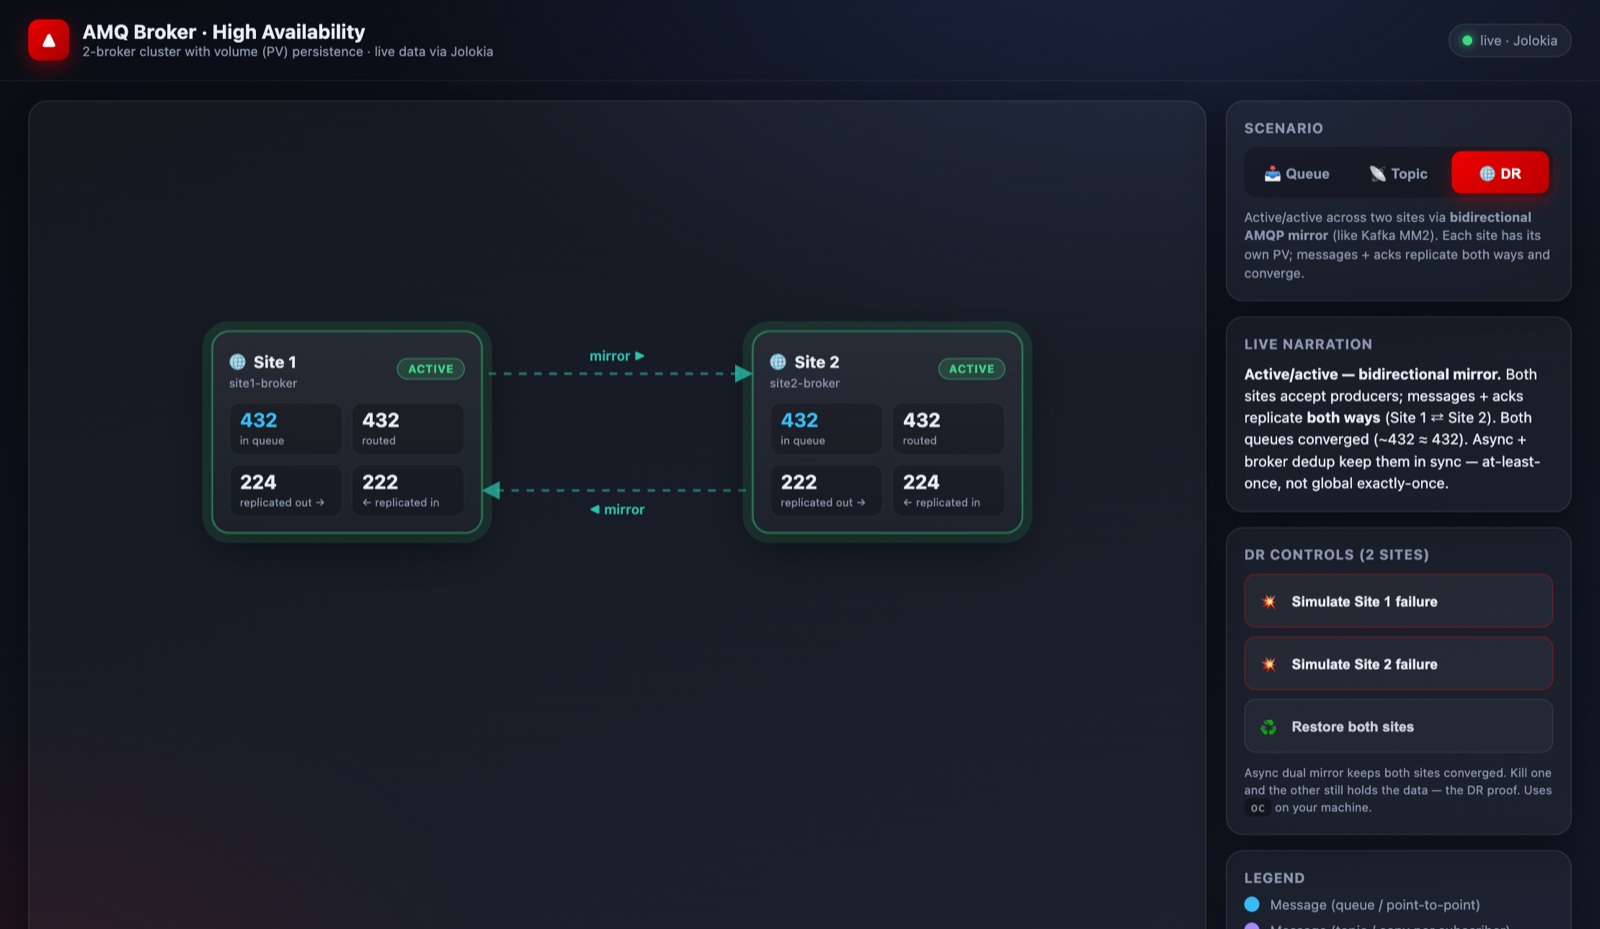
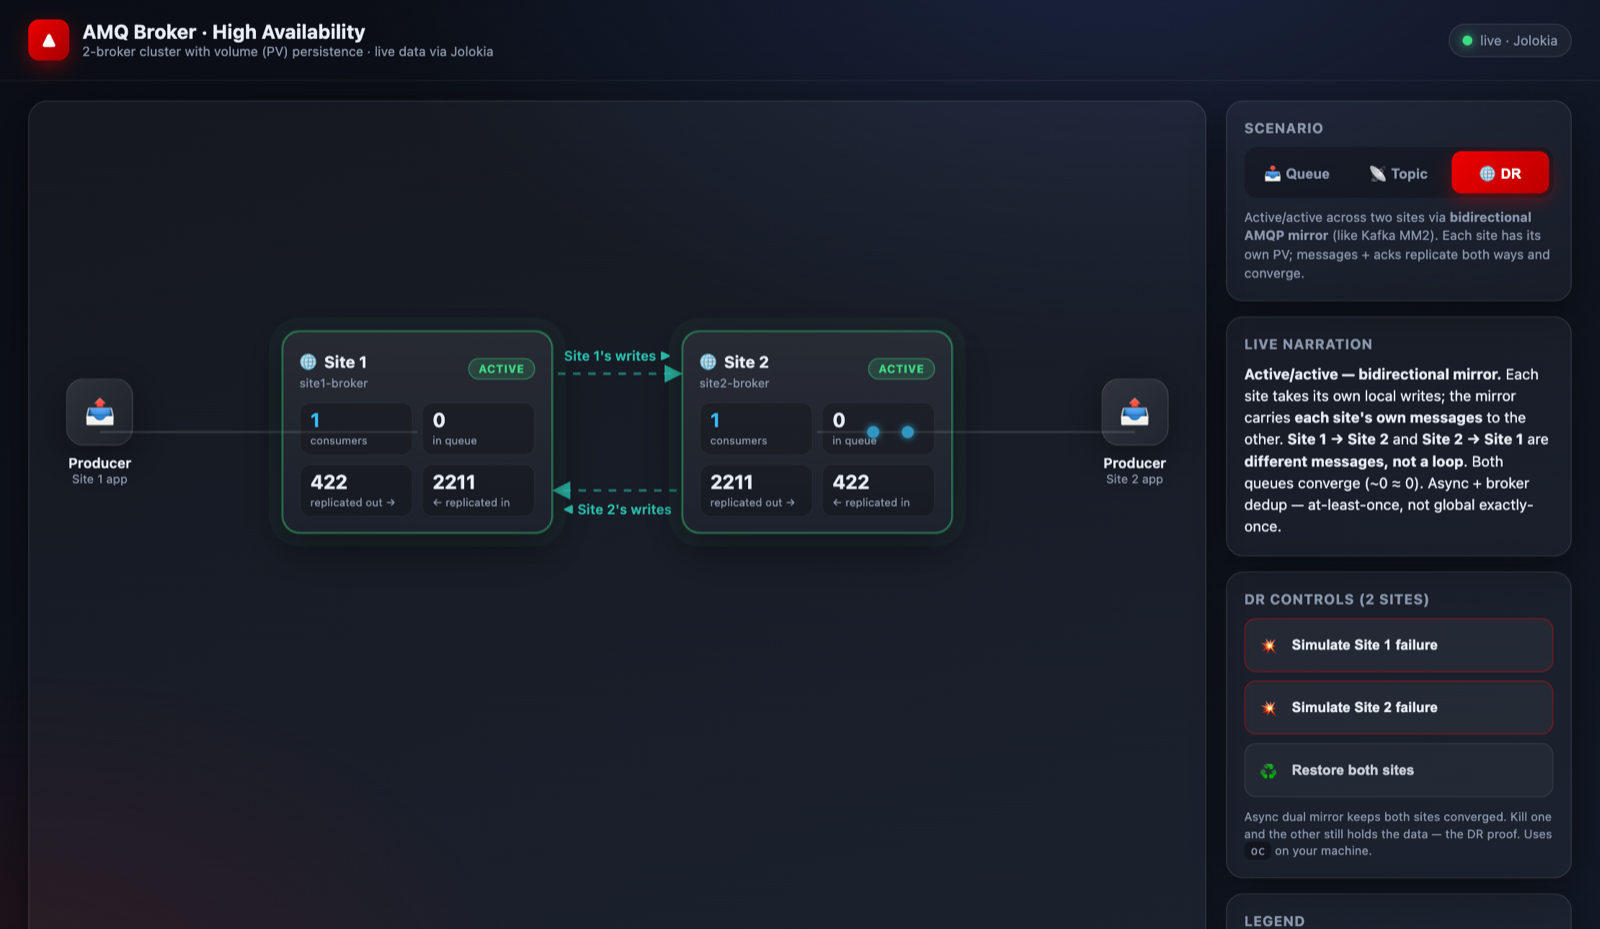
feat(active-active): client failover so a site outage stops nothing
- apps: producer + consumer on each site, prefer local site, fail over to the other
  (explicit 'artemis <local> || artemis <remote>' loop, fast finite reconnect)
- visualizer: show per-site consumer count; on a site failure animate the app
  rerouting to the survivor (amber 'failover' flow) + banner 'nothing stopped'
- restore action bounces the site's consumer (delayed) so it returns home
- refresh DR screenshots + README

diff --git a/webapp/index.html b/webapp/index.html
@@ -400,8 +400,8 @@ function renderSiteCard(s){
         <span class="st ${stCls}">${stTxt}</span>
       </div>
       <div class="grid2">
-        <div class="met hl"><div class="v">${s.messageCount}</div><div class="k">in queue</div></div>
-        <div class="met"><div class="v">${s.routed}</div><div class="k">routed</div></div>
+        <div class="met hl"><div class="v">${s.consumers||0}</div><div class="k">consumers</div></div>
+        <div class="met"><div class="v">${s.messageCount}</div><div class="k">in queue</div></div>
         <div class="met"><div class="v">${s.mirrorOut}</div><div class="k">replicated out →</div></div>
         <div class="met"><div class="v">${s.replIn||0}</div><div class="k">← replicated in</div></div>
       </div>
@@ -445,12 +445,26 @@ function drawDrPaths(){
   // local-produce links (each producer feeds its own site)
   pathsG.appendChild(lineEl(layout.prod1, layout.site1));
   pathsG.appendChild(lineEl(layout.prod2, layout.site2));
-  // mirror lanes, each labelled by its SOURCE so it's clear they carry different messages
-  pathsG.appendChild(drMirrorLine(layout.mTopA, layout.mTopB));   // site1 -> site2
-  pathsG.appendChild(drMirrorLine(layout.mBotA, layout.mBotB));   // site2 -> site1
-  const midx=(layout.site1.x+layout.site2.x)/2;
-  pathsG.appendChild(drText(midx, layout.mTopA.y-12, "Site 1's writes  ▶"));
-  pathsG.appendChild(drText(midx, layout.mBotA.y+22, "◀  Site 2's writes"));
+  const off = lastDr ? lastDr.sites.filter(s=>!s.online).map(s=>s.id) : [];
+  if(off.length){
+    // failure scenario: the dead site's app reroutes to the survivor (amber)
+    const dead=off[0], surv=dead===1?2:1;
+    const prod=dead===1?layout.prod1:layout.prod2, site=surv===1?layout.site1:layout.site2;
+    const fl=document.createElementNS(NS,"path");
+    fl.setAttribute("d",`M ${prod.x} ${prod.y} L ${site.x} ${site.y}`);
+    fl.setAttribute("fill","none"); fl.setAttribute("stroke","rgba(255,176,32,.7)");
+    fl.setAttribute("stroke-width","2.6"); fl.setAttribute("stroke-dasharray","7 7"); fl.classList.add("flow");
+    pathsG.appendChild(fl);
+    const e=drText((prod.x+site.x)/2, prod.y-14, `Site ${dead} app → Site ${surv} (failover)`);
+    e.setAttribute("fill","rgba(255,176,32,.95)"); pathsG.appendChild(e);
+  }else{
+    // mirror lanes, each labelled by its SOURCE so it's clear they carry different messages
+    pathsG.appendChild(drMirrorLine(layout.mTopA, layout.mTopB));   // site1 -> site2
+    pathsG.appendChild(drMirrorLine(layout.mBotA, layout.mBotB));   // site2 -> site1
+    const midx=(layout.site1.x+layout.site2.x)/2;
+    pathsG.appendChild(drText(midx, layout.mTopA.y-12, "Site 1's writes  ▶"));
+    pathsG.appendChild(drText(midx, layout.mBotA.y+22, "◀  Site 2's writes"));
+  }
 }
 
 // A message is BORN at a site's producer (blue), enters the site, then is REPLICATED
@@ -467,26 +481,37 @@ function spawnSiteFlow(siteId, n, targetOnline){
   }, i*130);
 }
 
+// when a site is down, its app reroutes to the survivor (amber = failover)
+function spawnFailover(deadId, survId, n){
+  const prod = deadId===1?layout.prod1:layout.prod2;
+  const site = survId===1?layout.site1:layout.site2;
+  for(let i=0;i<n;i++) setTimeout(()=>{ if(mode==="dr") spawnDot([prod,site], COLORS.migrate, 240); }, i*130);
+}
+
 function onDrState(st){
   const wasOff={...drOffline};
   const byId={}; st.sites.forEach(s=>byId[s.id]=s);
   // each site's "replicated in" = the other site's outbound mirror count
   st.sites.forEach(s=>{ const o=byId[s.id===1?2:1]; s.replIn = o? o.mirrorOut:0; });
   lastDr=st;
+  let changed=false;
   st.sites.forEach(s=>{
     const down=!s.online;
-    if(down && !wasOff[s.id]){ drOffline[s.id]=true; const surv=s.id===1?2:1;
-      showBanner(`⚠ ${s.name} OFFLINE — Site ${surv} keeps serving (converged copy, no data lost)`);
-      toast(`${s.name} down — DR: Site ${surv} already holds the data`);
-    }else if(!down && wasOff[s.id]){ drOffline[s.id]=false; hideBanner();
+    if(down && !wasOff[s.id]){ drOffline[s.id]=true; changed=true; const surv=s.id===1?2:1;
+      showBanner(`⚠ ${s.name} OFFLINE — its apps failed over to Site ${surv}, nothing stopped`);
+      toast(`${s.name} down — apps failed over to Site ${surv}`);
+    }else if(!down && wasOff[s.id]){ drOffline[s.id]=false; changed=true; hideBanner();
       toast(`${s.name} recovered — mirror re-syncing`);
     }
   });
   [1,2].forEach(id=>{ const s=byId[id]; if(s){ renderSiteCard(s); moveNode("site"+id, id===1?layout.site1:layout.site2); } });
-  // animate each site's own flow (produce -> replicate) from real outbound-mirror deltas
+  if(changed) drawDrPaths();   // switch between mirror lanes and the failover line
+  // animate the flow from real outbound-mirror deltas
   const s1on=!!(byId[1]&&byId[1].online), s2on=!!(byId[2]&&byId[2].online);
-  if(s1on){ const d=(byId[1].mirrorOut||0)-((prevDr[1]||{}).mirrorOut||0); spawnSiteFlow(1, Math.max(0,Math.min(8,d)), s2on); }
-  if(s2on){ const d=(byId[2].mirrorOut||0)-((prevDr[2]||{}).mirrorOut||0); spawnSiteFlow(2, Math.max(0,Math.min(8,d)), s1on); }
+  const delta=id=> Math.max(0,Math.min(8,(byId[id].mirrorOut||0)-((prevDr[id]||{}).mirrorOut||0)));
+  if(s1on && s2on){ spawnSiteFlow(1, delta(1), true); spawnSiteFlow(2, delta(2), true); }
+  else if(s1on && !s2on){ const n=delta(1); spawnSiteFlow(1, n, false); spawnFailover(2, 1, n); }  // site2 down: its app -> site1
+  else if(!s1on && s2on){ const n=delta(2); spawnSiteFlow(2, n, false); spawnFailover(1, 2, n); }  // site1 down: its app -> site2
   prevDr={}; st.sites.forEach(s=> prevDr[s.id]={mirrorOut:s.mirrorOut});
   drNarration(); updateConn(true);
 }
@@ -495,8 +520,8 @@ function drNarration(){
   if(!lastDr){return;}
   const sites=lastDr.sites, on=sites.filter(s=>s.online), off=sites.filter(s=>!s.online);
   let txt="";
-  if(off.length){ const surv=on[0];
-    txt=`<b>${off.map(s=>s.name).join(", ")} OFFLINE.</b> Active/active DR: <b>${surv?surv.name:"—"}</b> keeps accepting traffic and already holds a <b>converged copy</b> via the mirror — <b>no data lost</b>. The mirror re-syncs when the site returns.`;
+  if(off.length){ const surv=on[0], dead=off[0];
+    txt=`<b>${dead.name} OFFLINE.</b> Its producer and consumer <b>failed over to ${surv?surv.name:"—"}</b> — <b>nothing stopped</b>. ${surv?surv.name:"The survivor"} now serves both sites and already holds the <b>converged copy</b> (no data lost). The mirror re-syncs when ${dead.name} returns.`;
   }else{
     const conv = (sites.length===2)? `Both queues converge (~${sites[0].messageCount} ≈ ${sites[1].messageCount}).` : "";
     txt=`<b>Active/active — bidirectional mirror.</b> Each site takes its own local writes; the mirror carries <b>each site's own messages</b> to the other. <b>Site 1 → Site 2</b> and <b>Site 2 → Site 1</b> are <b>different messages, not a loop</b>. ${conv} Async + broker dedup — at-least-once, not global exactly-once.`;

diff --git a/webapp/server.py b/webapp/server.py
@@ -243,7 +243,7 @@ def read_site(site):
     outbound mirror queue MessagesAdded (= events replicated to the other site)."""
     out = {"id": site["id"], "name": site["name"], "cr": site["cr"],
            "mirror": site["mirror"], "online": False, "active": False,
-           "messageCount": 0, "routed": 0, "mirrorOut": 0}
+           "messageCount": 0, "routed": 0, "mirrorOut": 0, "consumers": 0}
     batch = [
         {"type": "read", "mbean": 'org.apache.activemq.artemis:broker="amq-broker"',
          "attribute": "Active"},
@@ -251,6 +251,8 @@ def read_site(site):
          "attribute": ["MessageCount", "RoutedMessageCount"]},
         {"type": "read", "mbean": _mirror_mbean(site["mirror"]),
          "attribute": ["MessagesAdded"]},
+        {"type": "read", "mbean": _q_mbean(CFG["queue"]),
+         "attribute": ["ConsumerCount"]},
     ]
     res = _jolokia_post(site["console"], batch)
     if not res or not isinstance(res, list):
@@ -273,6 +275,11 @@ def read_site(site):
             out["mirrorOut"] = res[2]["value"].get("MessagesAdded", 0)
     except Exception:
         pass
+    try:
+        if len(res) > 3 and res[3].get("status") == 200:
+            out["consumers"] = res[3]["value"].get("ConsumerCount", 0)
+    except Exception:
+        pass
     return out
 
 
@@ -287,10 +294,12 @@ def dr_demo_state():
     return {"sites": [
         {"id": 1, "name": "Site 1", "cr": "site1-broker", "mirror": "toSite2",
          "online": True, "active": True, "messageCount": _dr_demo["s1q"],
-         "routed": _dr_demo["s1q"] + _dr_demo["m21"], "mirrorOut": _dr_demo["m12"]},
+         "routed": _dr_demo["s1q"] + _dr_demo["m21"], "mirrorOut": _dr_demo["m12"],
+         "consumers": 1},
         {"id": 2, "name": "Site 2", "cr": "site2-broker", "mirror": "toSite1",
          "online": True, "active": True, "messageCount": _dr_demo["s2q"],
-         "routed": _dr_demo["s2q"] + _dr_demo["m12"], "mirrorOut": _dr_demo["m21"]},
+         "routed": _dr_demo["s2q"] + _dr_demo["m12"], "mirrorOut": _dr_demo["m21"],
+         "consumers": 1},
     ]}
 
 
@@ -313,6 +322,18 @@ def dr_action(kind, site_id):
                       "-p", '{"spec":{"deploymentPlan":{"size":%s}}}' % size])
     manual = ("oc patch activemqartemis %s -n %s --type merge "
               "-p '{\"spec\":{\"deploymentPlan\":{\"size\":%s}}}'" % (cr, ns, size))
+    # On restore, bounce that site's consumer so a failed-over client returns home —
+    # but only AFTER the broker is ready again (delayed, detached), to avoid it just
+    # failing back over to the survivor.
+    if kind == "restore":
+        try:
+            subprocess.Popen(
+                ["bash", "-c",
+                 f"sleep 50; oc rollout restart deployment/site{site_id}-consumer -n {ns}"],
+                stdout=subprocess.DEVNULL, stderr=subprocess.DEVNULL,
+                start_new_session=True)
+        except Exception:
+            pass
     return {"ok": ok, "output": out, "manual": manual,
             "needsLogin": (not ok and ("Unauthorized" in out or "login" in out.lower()))}
 

diff --git a/README.md b/README.md
@@ -186,7 +186,7 @@ MirrorMaker 2 active/active setup.
 ```bash
 oc apply -f manifests/active-active/01-operator.yaml      # Operator in the amq-aa namespace
 oc apply -f manifests/active-active/02-brokers.yaml        # site1-broker <== dual mirror ==> site2-broker
-oc apply -f manifests/active-active/03-apps.yaml           # a producer on EACH site
+oc apply -f manifests/active-active/03-apps.yaml           # a producer + consumer on EACH site (with client failover)
 oc apply -f manifests/active-active/04-console-routes.yaml
 ```
 
@@ -198,9 +198,15 @@ AMQPConnections.toSite2.connectionElements.mirror.messageAcknowledgements=true
 ```
 (site 2 has the symmetric `toSite1` connection.)
 
-**Demo it** in the visualizer's **DR mode** (see below): both queues stay converged;
-click *Simulate Site 1 failure* and Site 2 keeps serving with a converged copy — no
-data lost. Then *Restore both sites* and the mirror re-syncs.
+Each app **prefers its local site but fails over to the other** (the failover is
+explicit in the client loop: `artemis <local> || artemis <remote>`), so a site outage
+stops nothing.
+
+**Demo it** in the visualizer's **DR mode** (see below): both queues stay converged
+and each site shows its own consumer. Click *Simulate Site 1 failure* — Site 1 goes
+OFFLINE and its **producer and consumer fail over to Site 2** (shown as an amber
+"failover" flow); **nothing stops** and no data is lost. Then *Restore both sites* and
+the mirror re-syncs (the failed-over consumer returns home).
 
 > ⚠️ The mirror is **asynchronous** → with consumers on both sites you get
 > at-least-once with a possible duplicate window (same trade-off as Kafka MM2), **not**